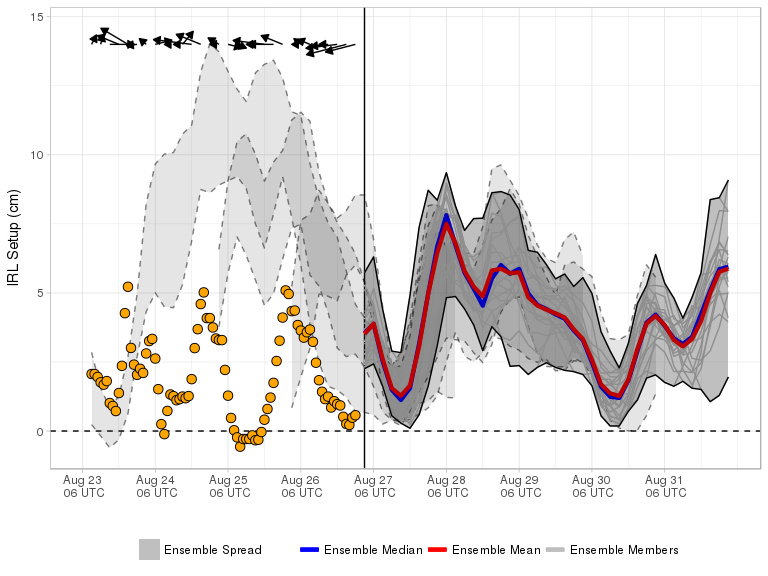
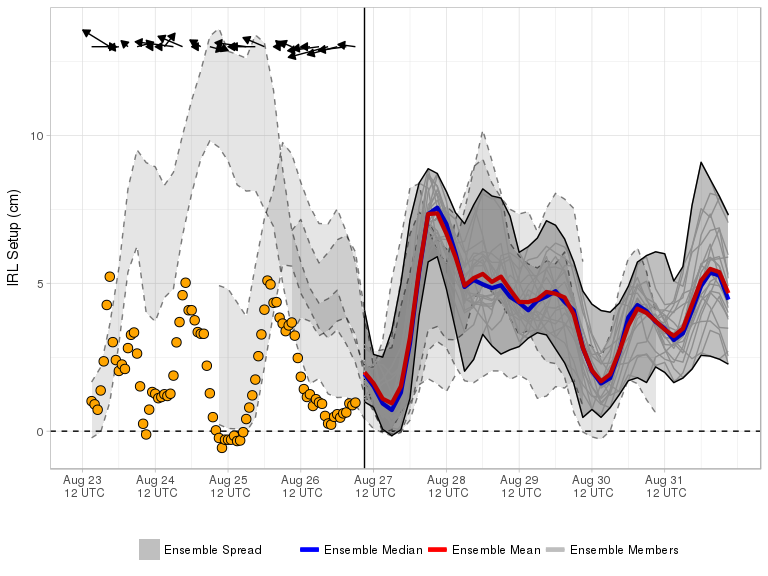
Forecast Update

diff --git a/docs/index.md b/docs/index.md
@@ -1,9 +1,9 @@
-Current Forecast 2018-08-26, Cycle 18 UTC
+Current Forecast 2018-08-27, Cycle 00 UTC
 -----------------------------------------
 
 [![](img/raw_setup.png)](https://fit-winds.github.io/IRLSetup/img/raw_setup.png)
 
-> Forecast valid 2018-08-26 20:33:51.
+> Forecast valid 2018-08-27 02:36:07.
 
 Explanation
 -----------
@@ -23,7 +23,7 @@ Ensemble Forecast System
 cycles. Calculation of the IRL setup is performed shortly after a new
 GEFS cycle is made available on the [data access
 link](http://www.ftp.ncep.noaa.gov/data/nccf/com/gens/prod/). The
-current cycle 2018-08-26 18 UTC 0.5° GEFS mean and median forecasts of
+current cycle 2018-08-27 00 UTC 0.5° GEFS mean and median forecasts of
 setup are represented by the red and blue curves, respectively. Ensemble
 spread from the current and three previous GEFS runs are shaded grey and
 bounded by solid and dashed curves, respectively.
